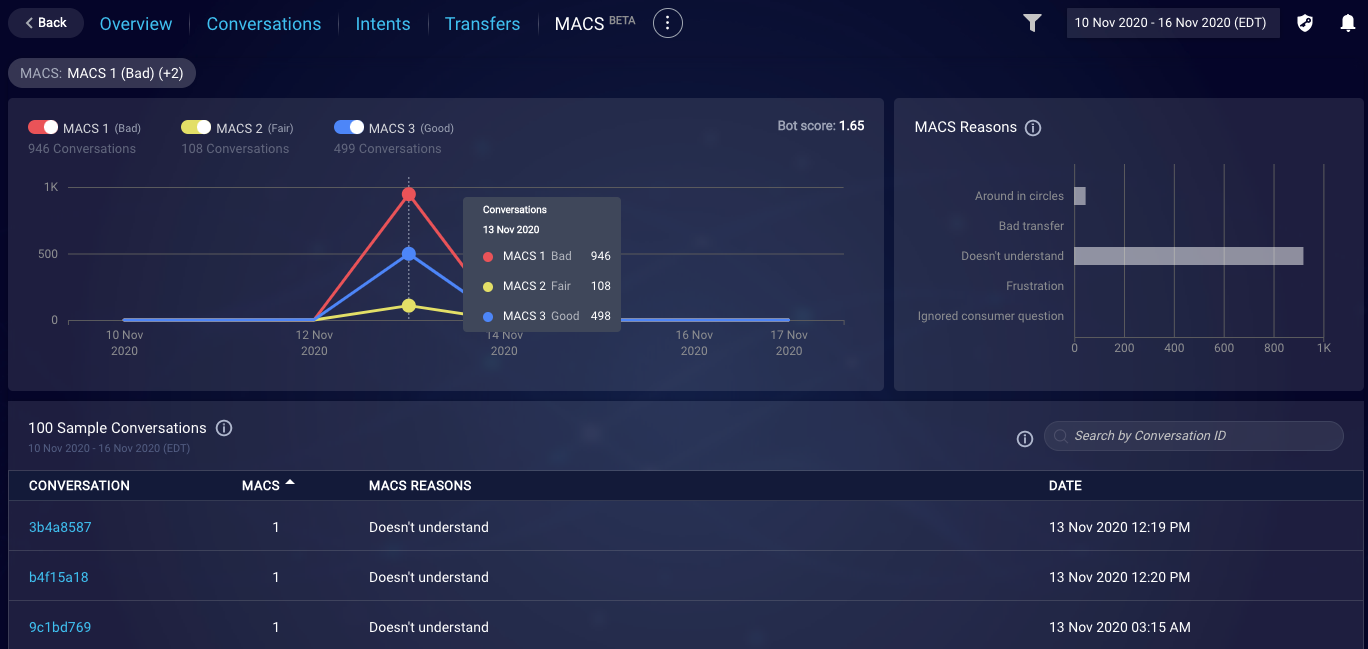
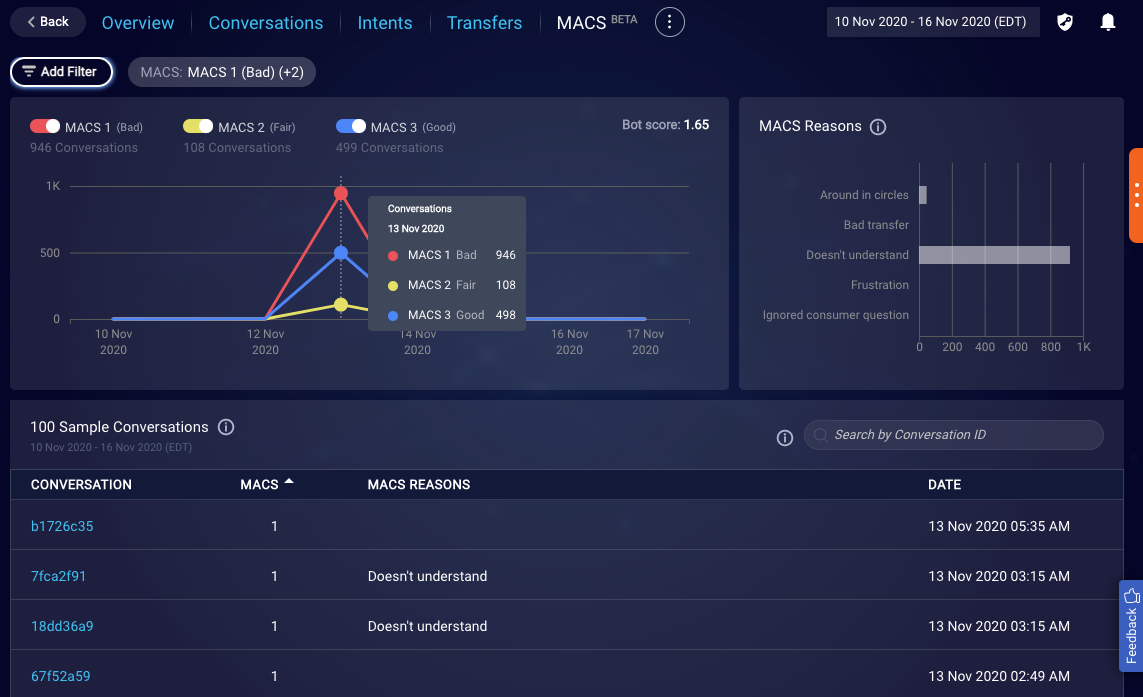
Update due to filter changes

diff --git a/pages/Documents/Hidden/Hidden/meaningful-automation-conversation-score.md b/pages/Documents/Hidden/Hidden/meaningful-automation-conversation-score.md
@@ -136,11 +136,12 @@ On the main dashboard, click a bot’s MACS to go to the **MACS** page for the b
 
 On the **MACS** page, use the filters to refine the data that’s displayed based on your criteria:
 
-1. **Score filters**: Toggle these on and off to show and hide the data for a score.
-2. **Detail filters**: Filter the data based on specific criteria, for example, the reason for the MACS score.
+1. **Detail filters**: Filter the data based on specific criteria, for example, the reason for the MACS score.
+2. **Score filters**: Toggle these on and off to show and hide the data for a score.
 3. **Date filter**: Specify the date range for the data.
 
 <img style="width:800px" src="img/ConvoBuilder/macs_filters.png">
+<img style="width:500px" src="img/ConvoBuilder/macs_filters2.png">
 
 Note the following about the filters:
 
